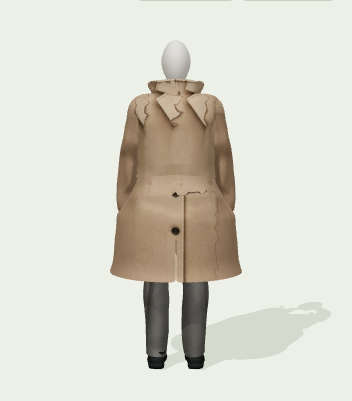
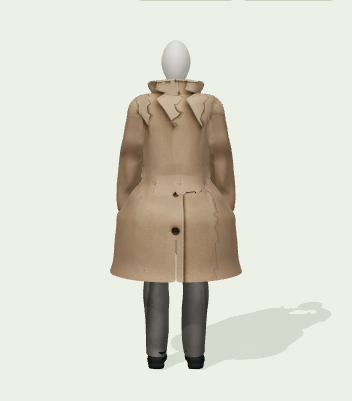
Slim the mannequin torso and refit both preview modes

diff --git a/src/lib/tailored-avatar.ts b/src/lib/tailored-avatar.ts
@@ -15,6 +15,33 @@ const models = new Map<string, Promise<GLTF>>()
 type TextureEntry={promise:Promise<THREE.Texture|undefined>;refs:number}
 const maps = new Map<string, TextureEntry>()
 const base = new Map(catalogue.map(g => [g.id,g]))
+const smooth=(a:number,b:number,value:number)=>{const t=THREE.MathUtils.clamp((value-a)/(b-a),0,1);return t*t*(3-2*t)}
+const slope=(a:number,b:number,value:number)=>{const t=THREE.MathUtils.clamp((value-a)/(b-a),0,1);return 6*t*(1-t)/(b-a)}
+/** A shared fitting cage narrows the trunk without scaling the limbs or head.
+ * Apply after UV projection so pockets/prints keep their garment placement. */
+export function fitSlimTorso(geometry:THREE.BufferGeometry) {
+  const positions=geometry.getAttribute('position'),normals=geometry.getAttribute('normal')
+  for(let i=0;i<positions.count;i++){
+    const x=positions.getX(i),y=positions.getY(i),z=positions.getZ(i)
+    const centre=1-smooth(.19,.255,Math.abs(x)),lower=smooth(.84,1.04,y),upper=1-smooth(1.37,1.54,y)
+    const trunk=centre*lower*upper
+    const taper=.13+.05*(1-smooth(1.13,1.36,y))
+    if(normals){
+      // Transform existing smooth normals with the cage's inverse transpose.
+      // Rebuilding normals on UV-split triangles would flatten the cloth.
+      const dx=-slope(.19,.255,Math.abs(x))*Math.sign(x)*lower*upper
+      const dy=centre*(slope(.84,1.04,y)*upper-lower*slope(1.37,1.54,y))
+      const a=1-taper*trunk-x*taper*dx,b=-x*(-.05*slope(1.13,1.36,y)*trunk+taper*dy)
+      const c=-z*.1*dx,d=-z*.1*dy,e=1-.1*trunk
+      const nz=normals.getZ(i)/e,nx=(normals.getX(i)-c*nz)/a,ny=normals.getY(i)-b*nx-d*nz,length=Math.hypot(nx,ny,nz)||1
+      normals.setXYZ(i,nx/length,ny/length,nz/length)
+    }
+    positions.setXYZ(i,x*(1-taper*trunk),y,z*(1-.10*trunk))
+  }
+  positions.needsUpdate=true
+  if(normals)normals.needsUpdate=true
+  geometry.computeBoundingBox();geometry.computeBoundingSphere()
+}
 export const tailoredRevision = 'studio-v2'
 export function tailoredFamily(garment: Garment, slot: string) {
   const kind = avatarGarment(garment,slot).kind
@@ -150,6 +177,9 @@ export async function buildTailoredAvatar(garments:Garment[],selection:Selection
     if(g.chestPocket)addChestPocket(group,g)
     root.add(group)
   }))
+  // Fit the form, all garment panels and attached details together. Cached
+  // source buffers remain untouched, so switching outfits cannot compound it.
+  root.traverse(o=>{const m=o as THREE.Mesh;if(m.isMesh)fitSlimTorso(m.geometry)})
   root.userData.assetFormat='glTF 2.0';root.userData.revision=tailoredRevision;root.userData.licensedSource='Blender Studio Human Base Meshes CC0 / independently authored fitted clothes'
   root.userData.textureUrls=[...ownedTextures.keys()];root.userData.textureEntries=[...ownedTextures.values()]
   root.userData.files=[...new Set(files)].map(f=>`tailored/${f}.glb`)

diff --git a/src/lib/tailored-avatar.test.ts b/src/lib/tailored-avatar.test.ts
@@ -6,12 +6,28 @@ import renders from '../data/mannequin-renders.json'
 import modelHashes from '../data/tailored-model-hashes.json'
 import {garments} from '../data/wardrobe'
 import {mannequinPhoto,mannequinOfflineUrls} from './mannequin-renders'
-import {bodyCovered,tailoredFamily} from './tailored-avatar'
+import {bodyCovered,tailoredFamily,fitSlimTorso} from './tailored-avatar'
+import {BufferGeometry,Float32BufferAttribute} from 'three'
 const read=(file:string)=>readFileSync(new URL(`../../${file}`,import.meta.url))
 const hash=(bytes:Buffer)=>createHash('sha256').update(bytes).digest('hex')
 const garment=(id:string)=>garments.find(g=>g.id===id)!
 
 describe('replacement fitted mannequin',()=>{
+ it('narrows the waist while preserving the shoulder connection, limbs and head',()=>{
+  const geometry=new BufferGeometry().setAttribute('position',new Float32BufferAttribute([.18,1.12,.14,-.18,1.12,-.14,.29,1.12,.04,.08,1.7,.05,.11,.30,.04,.17,1.535,.05],3))
+  geometry.setAttribute('normal',new Float32BufferAttribute(Array.from({length:6},()=>[Math.SQRT1_2,Math.SQRT1_2,0]).flat(),3))
+  fitSlimTorso(geometry)
+  const p=geometry.getAttribute('position')
+  expect(p.getX(0)).toBeCloseTo(.1476,4);expect(p.getX(1)).toBeCloseTo(-.1476,4)
+  expect(p.getZ(0)).toBeCloseTo(.126,4)
+  expect(p.getX(2)).toBeCloseTo(.29);expect(p.getX(3)).toBeCloseTo(.08);expect(p.getX(4)).toBeCloseTo(.11)
+  expect(p.getX(5)).toBeGreaterThan(.169)
+  const n=geometry.getAttribute('normal')
+  expect(n.getX(0)).toBeGreaterThan(n.getY(0))
+  expect(Math.hypot(n.getX(0),n.getY(0),n.getZ(0))).toBeCloseTo(1)
+  expect(n.getX(2)).toBeCloseTo(Math.SQRT1_2)
+  geometry.dispose()
+ })
  it('ships a different body and every fitted construction within mobile budgets',()=>{
   expect(models.assets).toHaveLength(20)
   for(const asset of models.assets){

diff --git a/scripts/tailored-avatar/README.md b/scripts/tailored-avatar/README.md
@@ -35,6 +35,13 @@ draws shoes before trousers so hems fall over the collars, and both cameras use
 a modest downward angle to reveal the feet. Model URLs include geometry hashes
 so a previous browser download cannot conceal a new asset release.
 
+The shared runtime fitting cage (v0.13.2) narrows the waist by up to 18% and
+chest by 13%, with a smooth shoulder/hip transition. It fits the body, all
+garments and pocket/button details together; head, hands and lower legs keep
+their proportions. Existing smooth normals use the cage's inverse transpose,
+so UV-split cloth does not become faceted. The 2D renderer applies this same
+cage, with no new geometry downloads or animation loop.
+
 The current body is a neutral display form. A textured human character
 is a different asset/style; this pipeline does not claim to produce one. Cloth
 rests in a static authored pose, with no browser cloth simulation or fit advice.

diff --git a/README.md b/README.md
@@ -218,3 +218,15 @@ than v0.13.0 (208,156 bytes and 32,512 triangles), and 3D remains optional.
 
 [Refined 2D preview](docs/mockups/mannequin-refinement-2d.png) ·
 [Refined 3D preview](docs/mockups/mannequin-refinement-3d.png)
+
+## Slimmer mannequin torso — v0.13.2
+
+The shared fitting cage narrows the torso and garment panels together, tapering
+the waist by up to 18% and the chest by 13%. It blends into the shoulders and
+hips while preserving limb lengths, hands, head and feet. Pocket/button details
+follow the garment surface. Smooth normals are transformed with the fitting
+cage, preserving fabric shading across texture seams. Both front/back 2D renders
+and interactive 3D use these proportions without additional model downloads.
+
+[Slimmer 2D preview](docs/mockups/slimmer-torso-2d.png) ·
+[Slimmer 3D preview](docs/mockups/slimmer-torso-3d.png)
